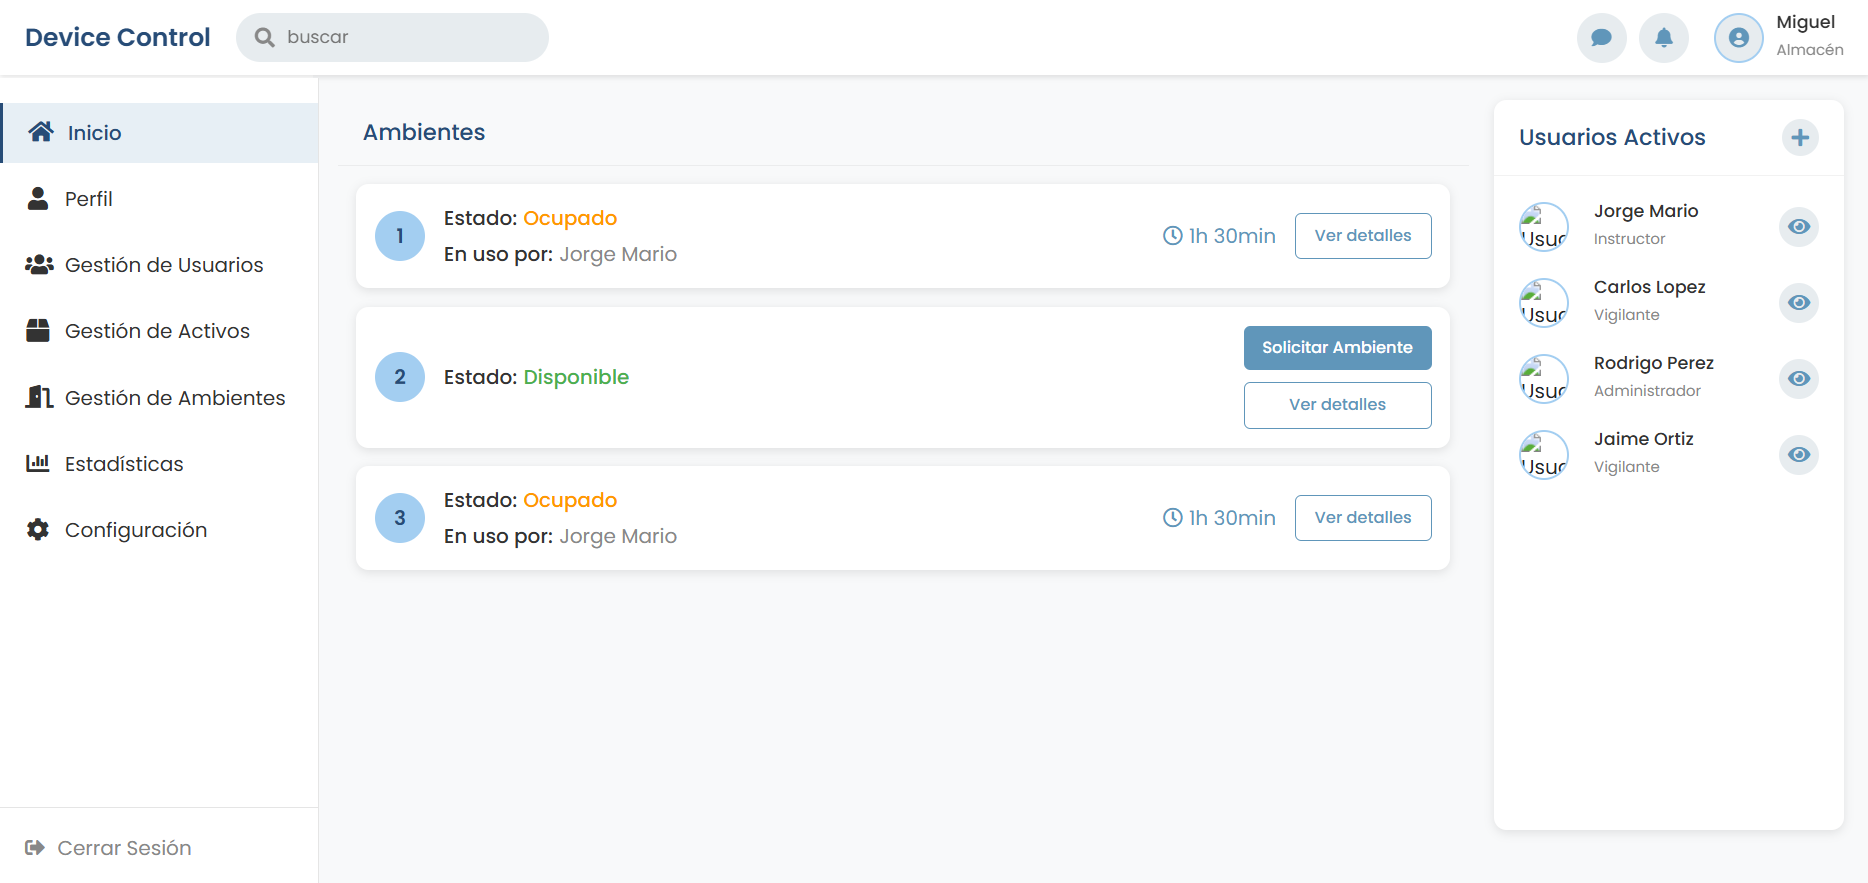
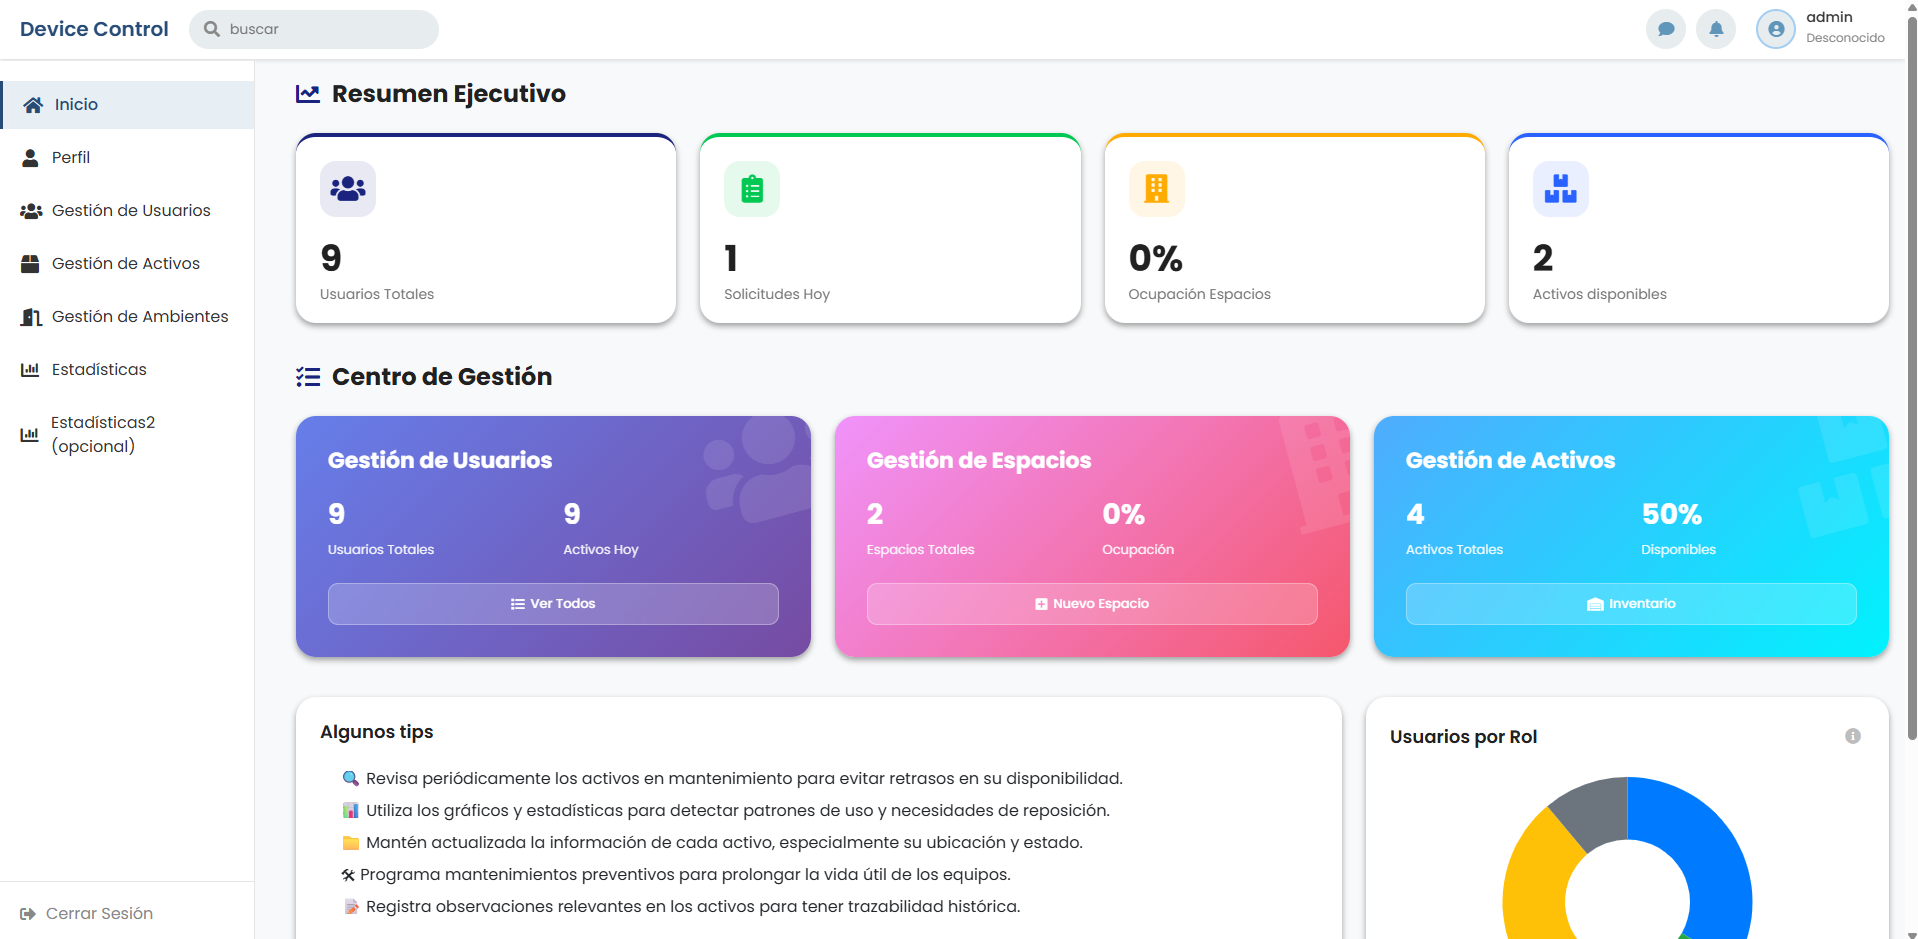
Vistas responsive con el sidebar

diff --git a/src/app/admin/home/home.component.ts b/src/app/admin/home/home.component.ts
@@ -72,7 +72,7 @@ interface RolUsuario {
     ])
   ]
 })
-export class HomeComponent implements OnInit, OnDestroy, AfterViewInit {
+export class HomeComponent implements OnInit, OnDestroy {
 
   usuarios: Usuario[] = [];
   solicitudes: SolicitudEspacio[] = [];
@@ -111,13 +111,6 @@ export class HomeComponent implements OnInit, OnDestroy, AfterViewInit {
     this.cargarDatosDashboard();
     this.actualizarHora();
     this.iniciarActualizacionTiempo();
-  }
-
-  ngAfterViewInit(): void {
-    setTimeout(() => {
-      this.crearGraficos();
-      this.crearMiniGraficos();
-    }, 100);
   }
 
   ngOnDestroy(): void {
@@ -253,6 +246,8 @@ export class HomeComponent implements OnInit, OnDestroy, AfterViewInit {
 
         this.inicializarSummaryCards();
         this.inicializarUsuariosPorRol();
+        this.crearGraficos();
+      this.crearMiniGraficos();
       },
       error: (err) => {
         console.error('Error al cargar datos del dashboard', err);
@@ -391,54 +386,6 @@ export class HomeComponent implements OnInit, OnDestroy, AfterViewInit {
         this.miniCharts.push(chart);
       }
     });
-  }
-
-  getLabelsForPeriod(period: string): string[] {
-    switch (period) {
-      case 'day':
-        return ['00:00', '04:00', '08:00', '12:00', '16:00', '20:00', '24:00'];
-      case 'week':
-        return ['Lun', 'Mar', 'Mié', 'Jue', 'Vie', 'Sáb', 'Dom'];
-      case 'month':
-        return ['Semana 1', 'Semana 2', 'Semana 3', 'Semana 4'];
-      case 'year':
-        return ['Ene', 'Feb', 'Mar', 'Abr', 'May', 'Jun', 'Jul'];
-      default:
-        return [];
-    }
-  }
-
-  getDataForPeriod(
-    tipo: 'solicitudes' | 'usuarios' | 'prestamos',
-    period: 'day' | 'week' | 'month' | 'year'
-  ): number[] {
-    // Simulación de datos según el período
-    const dataSets: {
-      solicitudes: { day: number[]; week: number[]; month: number[]; year: number[]; };
-      usuarios: { day: number[]; week: number[]; month: number[]; year: number[]; };
-      prestamos: { day: number[]; week: number[]; month: number[]; year: number[]; };
-    } = {
-      solicitudes: {
-        day: [15, 22, 28, 35, 42, 38, 30],
-        week: [65, 78, 66, 84, 76, 88, 92],
-        month: [280, 320, 310, 350],
-        year: [950, 1020, 1100, 980, 1150, 1200, 1180]
-      },
-      usuarios: {
-        day: [20, 35, 45, 55, 65, 58, 40],
-        week: [45, 52, 48, 58, 63, 71, 75],
-        month: [200, 220, 215, 240],
-        year: [680, 720, 780, 750, 810, 850, 870]
-      },
-      prestamos: {
-        day: [8, 12, 15, 20, 18, 16, 10],
-        week: [28, 34, 32, 41, 38, 45, 52],
-        month: [120, 135, 128, 145],
-        year: [420, 450, 480, 460, 510, 530, 520]
-      }
-    };
-
-    return dataSets[tipo][period] || [];
   }
 
   getColorForCardType(type: 'primary' | 'success' | 'warning' | 'info'): string {

diff --git a/src/app/almacen/shared/sidebar/sidebar.component.ts b/src/app/almacen/shared/sidebar/sidebar.component.ts
@@ -1,6 +1,8 @@
 import { CommonModule } from '@angular/common';
-import { Component, Input, Output, EventEmitter } from '@angular/core';
+import { Component, Input } from '@angular/core';
 import { RouterModule } from '@angular/router';
+import { AuthService } from '../../../core/services/auth.service';
+
 
 @Component({
   selector: 'app-sidebar',
@@ -11,11 +13,12 @@ import { RouterModule } from '@angular/router';
 })
 
 export class SidebarComponent {
+
+  constructor(private authService: AuthService) {}
   
   @Input() active: boolean = false;
-  @Output() cerrarSesion = new EventEmitter<void>();
 
   onCerrarSesion() {
-    this.cerrarSesion.emit();
+    this.authService.logout();
   }
 }

diff --git a/src/app/almacen/home/home.component.css b/src/app/almacen/home/home.component.css
@@ -49,6 +49,7 @@ body {
     display: flex;
     min-height: 100vh;
     margin-top: 52px;
+    margin-left: 255px;
 }
 
 .menu-item {
@@ -737,7 +738,7 @@ body {
     }
 }
 
-@media (max-width: 900px) {
+/* @media (max-width: 900px) {
     .sidebar {
         transform: translateX(-100%);
     }
@@ -766,6 +767,13 @@ body {
     
     .search-box {
         display: none;
+    }
+} */
+
+@media (max-width: 768px) {
+
+    .dashboard-container {
+        margin-left: 0px;
     }
 }
 
@@ -806,7 +814,7 @@ body {
 /* Main Content */
 .main-content {
     flex: 1;
-    margin-left: 255px;
+    /* margin-left: 255px; */
     background: var(--gray-100);
 }
 

diff --git a/src/app/admin/shared/sidebar/sidebar.component.ts b/src/app/admin/shared/sidebar/sidebar.component.ts
@@ -1,6 +1,7 @@
 import { CommonModule } from '@angular/common';
 import { Component, Input, Output, EventEmitter } from '@angular/core';
 import { RouterModule } from '@angular/router';
+import { AuthService } from '../../../core/services/auth.service';
 
 @Component({
   selector: 'app-sidebar',
@@ -11,11 +12,13 @@ import { RouterModule } from '@angular/router';
 })
 
 export class SidebarComponent {
+
+  constructor(private authService: AuthService) {}
   
   @Input() active: boolean = false;
-  @Output() cerrarSesion = new EventEmitter<void>();
+
 
   onCerrarSesion() {
-    this.cerrarSesion.emit();
+    this.authService.logout();
   }
 }

diff --git a/src/app/instructor/shared/sidebar/sidebar.component.ts b/src/app/instructor/shared/sidebar/sidebar.component.ts
@@ -1,6 +1,8 @@
 import { CommonModule } from '@angular/common';
 import { Component, EventEmitter, Input, Output } from '@angular/core';
 import { RouterModule } from '@angular/router';
+import { AuthService } from '../../../core/services/auth.service';
+
 
 @Component({
   selector: 'app-sidebar',
@@ -10,11 +12,11 @@ import { RouterModule } from '@angular/router';
 })
 export class SidebarComponent {
 
+  constructor(private authService: AuthService) {}
+
   @Input() active: boolean = false;
-  @Output() cerrarSesion = new EventEmitter<void>();
 
   onCerrarSesion() {
-    this.cerrarSesion.emit();
+    this.authService.logout();
   }
-
 }

diff --git a/src/app/vigilante/shared/sidebar/sidebar.component.ts b/src/app/vigilante/shared/sidebar/sidebar.component.ts
@@ -1,6 +1,7 @@
 import { CommonModule } from '@angular/common';
 import { Component, EventEmitter, Input, Output } from '@angular/core';
 import { RouterModule } from '@angular/router';
+import { AuthService } from '../../../core/services/auth.service';
 
 @Component({
   selector: 'app-sidebar',
@@ -10,11 +11,11 @@ import { RouterModule } from '@angular/router';
 })
 export class SidebarComponent {
 
+  constructor(private authService: AuthService) {}
+
   @Input() active: boolean = false;
-  @Output() cerrarSesion = new EventEmitter<void>();
 
   onCerrarSesion() {
-    this.cerrarSesion.emit();
+    this.authService.logout();
   }
-
 }

diff --git a/src/app/core/services/auth.service.ts b/src/app/core/services/auth.service.ts
@@ -57,6 +57,7 @@ updateUserProfile(userId: number, profileData: UpdateProfileRequest): Observable
     // Limpiar el usuario almacenado
     this.currentUser = null;
     localStorage.removeItem('currentUser');
+    localStorage.removeItem('token');
   }
 
   getToken(): string | null {

diff --git a/src/app/admin/shared/sidebar/sidebar.component.css b/src/app/admin/shared/sidebar/sidebar.component.css
@@ -15,9 +15,9 @@
 @media (max-width: 768px) {
   .sidebar {
     position: fixed;
-    top: 62px;
+    /* top: 62px; */
     left: 0;
-    height: 100vh;
+    height: calc(100vh - 60px);
     transform: translateX(-100%);
     z-index: 1000;
     background-color: #fff;

diff --git a/src/app/almacen/shared/sidebar/sidebar.component.css b/src/app/almacen/shared/sidebar/sidebar.component.css
@@ -15,9 +15,9 @@
 @media (max-width: 768px) {
   .sidebar {
     position: fixed;
-    top: 62px;
+    /* top: 62px; */
     left: 0;
-    height: 100vh;
+    height: calc(100vh - 60px);
     transform: translateX(-100%);
     z-index: 1000;
     background-color: #fff;

diff --git a/src/app/instructor/shared/sidebar/sidebar.component.css b/src/app/instructor/shared/sidebar/sidebar.component.css
@@ -15,9 +15,9 @@
 @media (max-width: 768px) {
   .sidebar {
     position: fixed;
-    top: 62px;
+    /* top: 62px; */
     left: 0;
-    height: 100vh;
+    height: calc(100vh - 60px);
     transform: translateX(-100%);
     z-index: 1000;
     background-color: #fff;

diff --git a/src/app/vigilante/shared/sidebar/sidebar.component.css b/src/app/vigilante/shared/sidebar/sidebar.component.css
@@ -15,9 +15,9 @@
 @media (max-width: 768px) {
   .sidebar {
     position: fixed;
-    top: 62px;
+    /* top: 62px; */
     left: 0;
-    height: 100vh;
+    height: calc(100vh - 60px);
     transform: translateX(-100%);
     z-index: 1000;
     background-color: #fff;

diff --git a/src/app/admin/shared/sidebar/sidebar.component.html b/src/app/admin/shared/sidebar/sidebar.component.html
@@ -33,7 +33,7 @@
   </nav>
 
   <div class="sidebar-footer">
-    <a href="#" class="logout-btn">
+    <a href="#" class="logout-btn" (click)="onCerrarSesion()">
       <i class="fas fa-sign-out-alt"></i>
       <span>Cerrar Sesión</span>
     </a>
